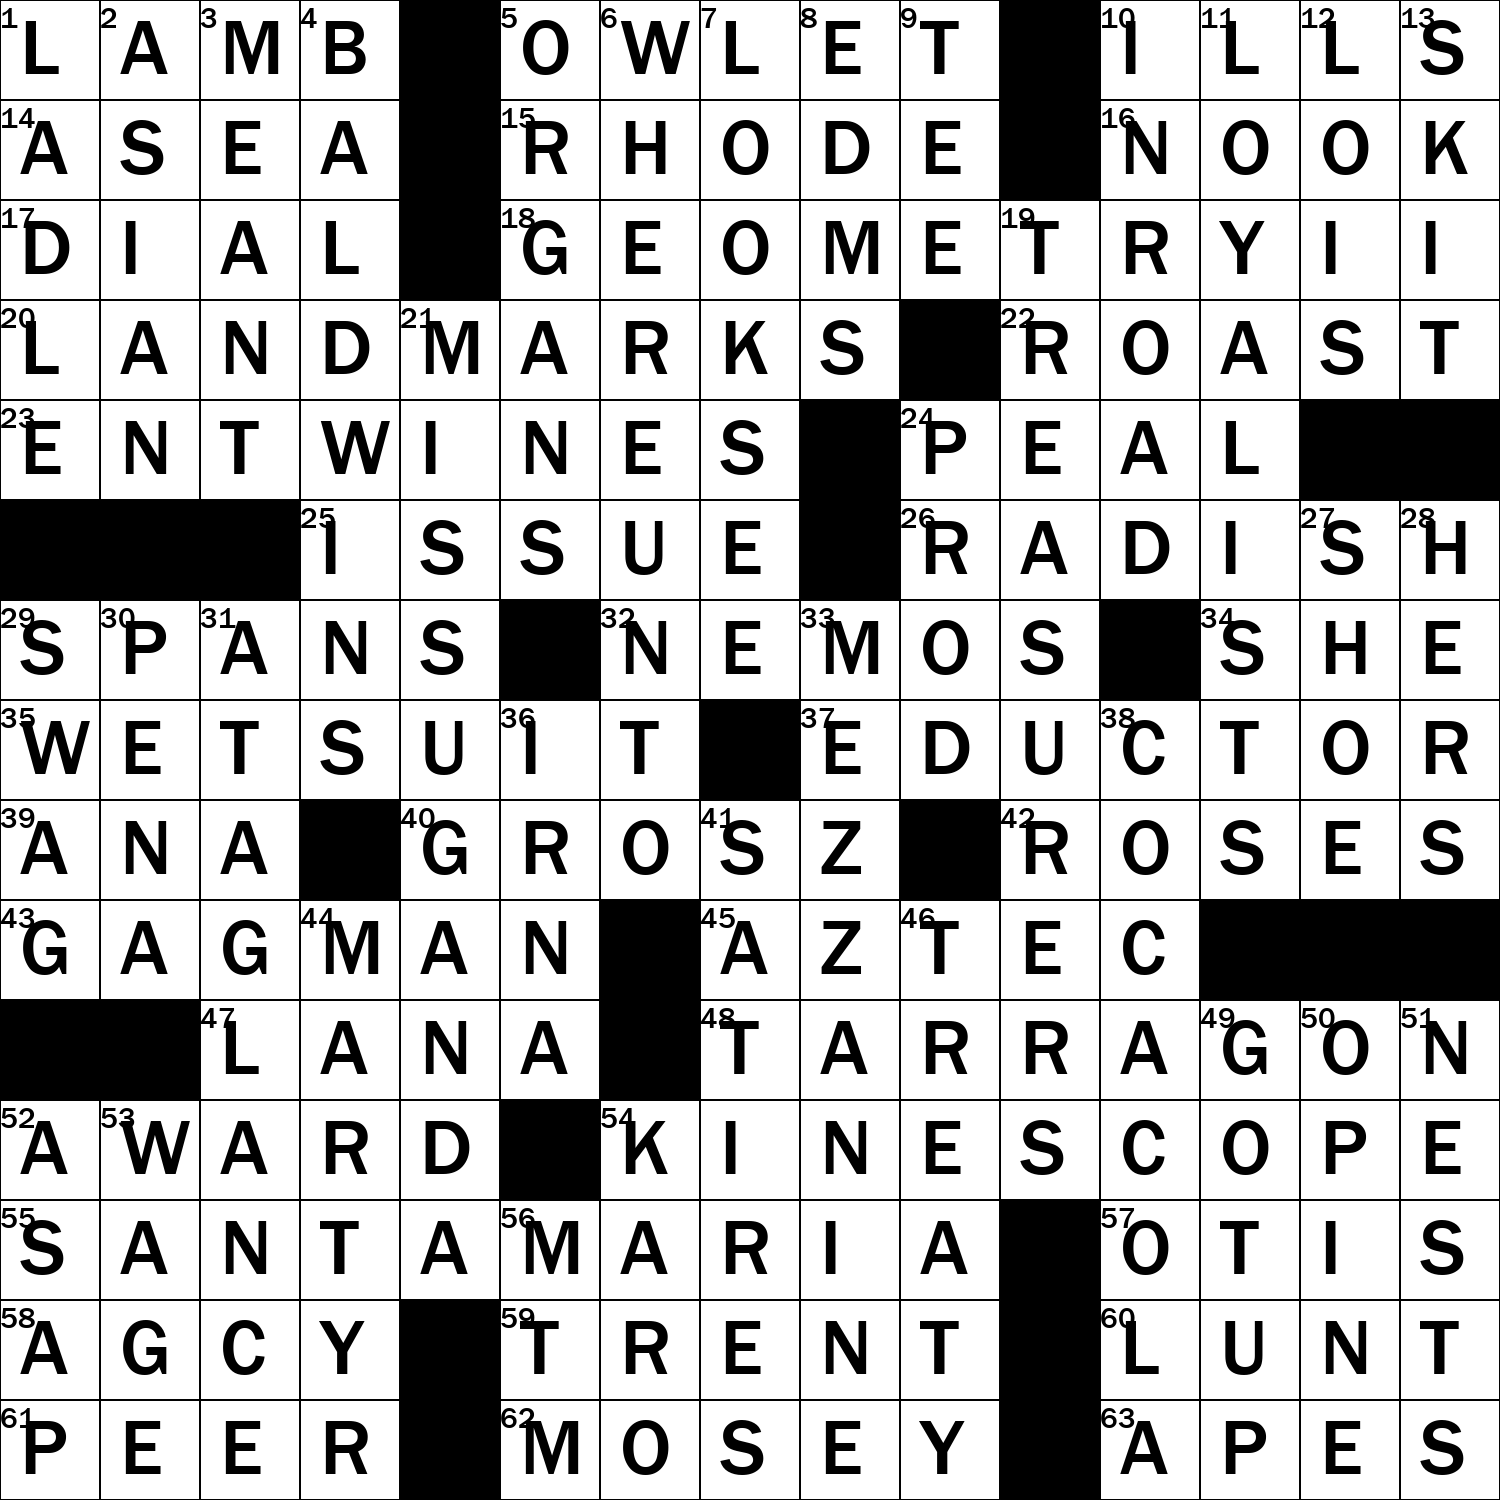
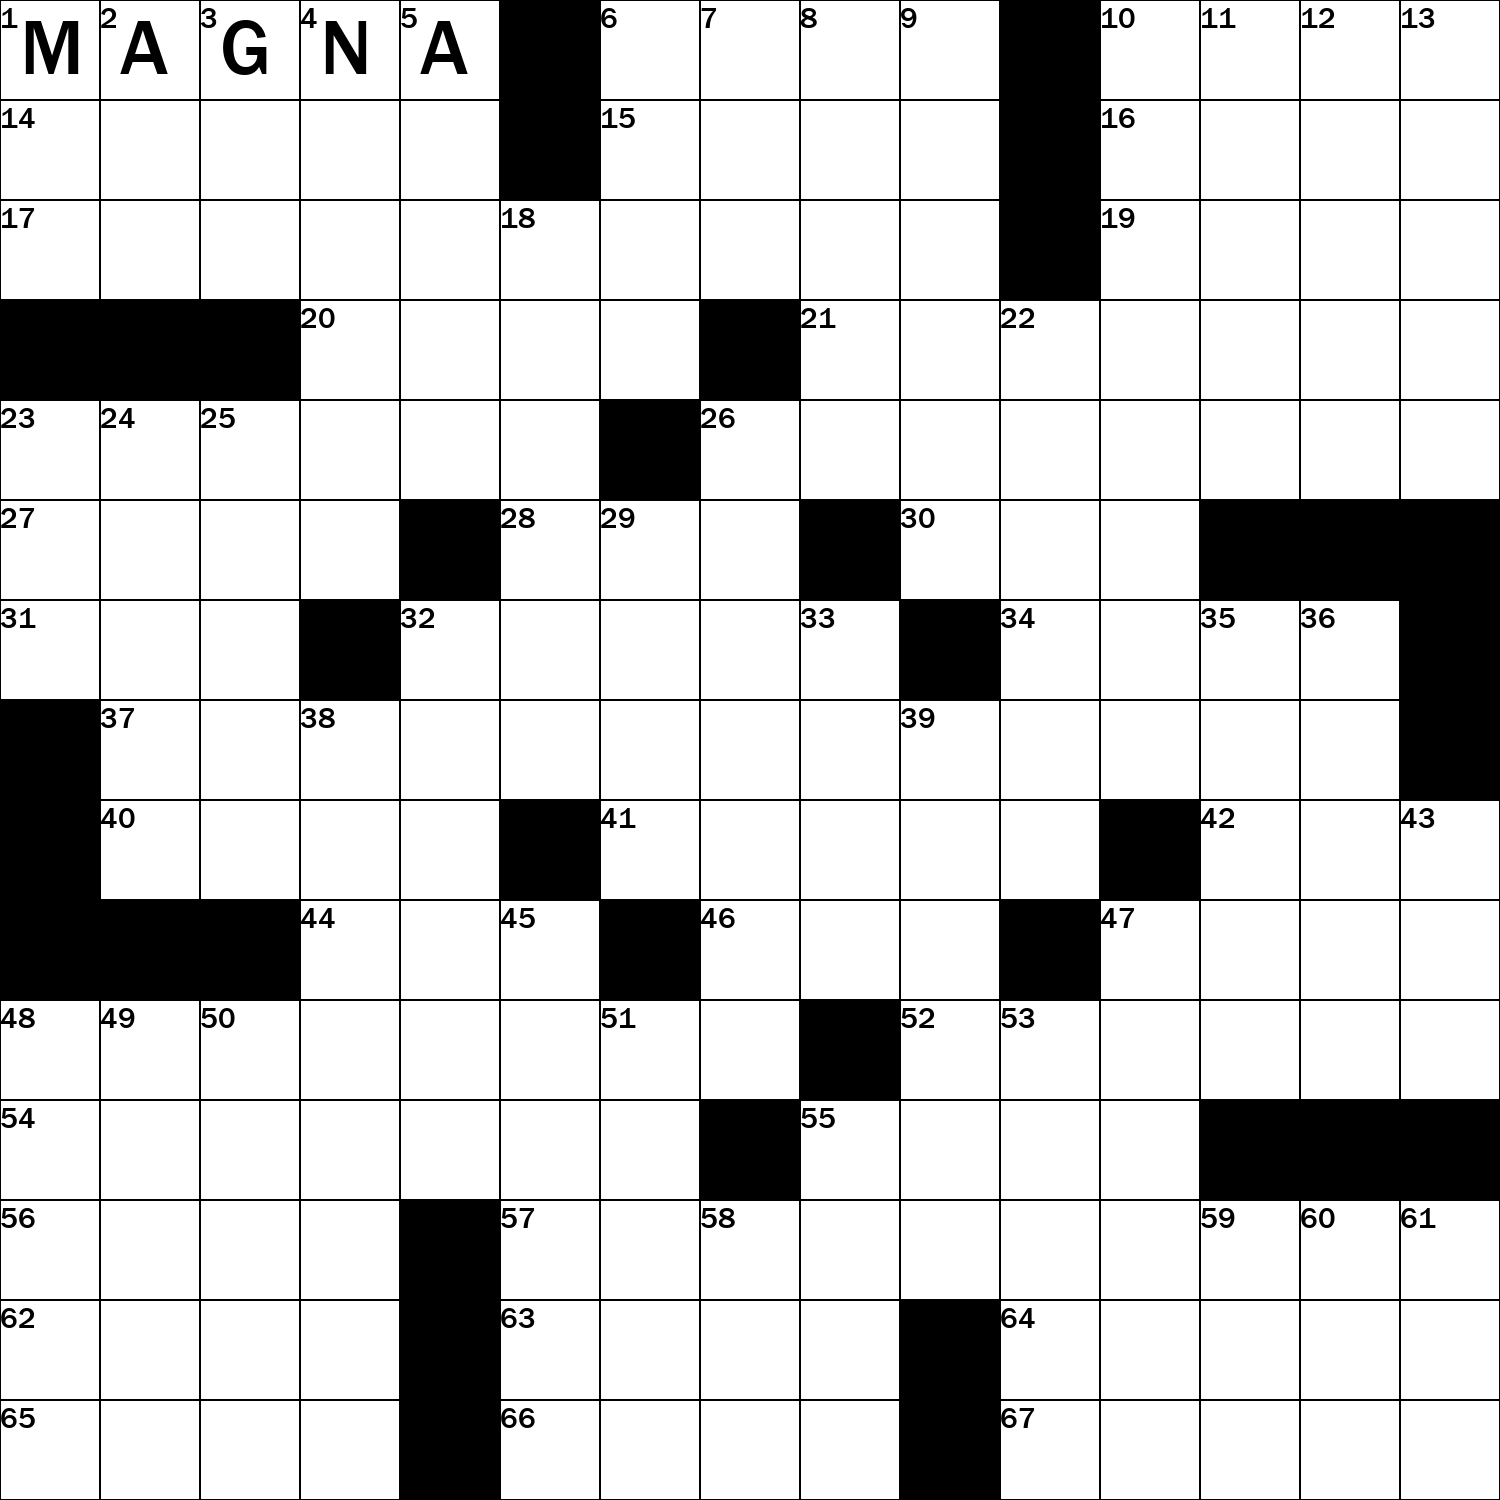
Bot works now ... kind of

diff --git a/crossword.py b/crossword.py
@@ -28,7 +28,7 @@ black_cell = black_cell.convert("RGBA")
 white_cell = Image.open('white_square.png')
 white_cell = white_cell.convert("RGBA")
 white_cell = white_cell.resize((100,100))
-print(white_cell.size)
+# print(white_cell.size)
 white_cell.save('white_square.png', "PNG")
 
 width, height = blank_cell.size
@@ -38,6 +38,71 @@ class Crossword(commands.Cog):
 
     def __init__(self, bot):
         self.bot = bot
+
+    async def crossword(self):
+        '''makes an image of the current crossword state and sends it in a discord embed'''
+
+        # load crossword info, later will be changed to current state
+        # with open("xwordData.json") as f:
+        with open("currentGrid.json") as f:
+            xwordData = json.load(f)
+            listChars = xwordData["grid"]
+            gridNums = xwordData["gridnums"]
+
+        # Image of the entire crossword will be a 15x15 grid of squares
+        crossword_image = Image.new('RGBA', (15 * width, 15 * height))
+        x_offset = 0
+        y_offset = 0
+        column = 0
+
+        for i in range(len(listChars)):
+            char = listChars[i]
+            # new row after every 15 cells
+            if column % 15 == 0 and column != 0:
+                # moves down a row and resets x offset to the very left
+                y_offset += height
+                x_offset = 0
+            column += 1
+
+            if char == '.':
+                # black cell, move x offset to the right for next cell
+                crossword_image.paste(black_cell, (x_offset, y_offset))
+                x_offset += width
+            elif char == '*':
+                # blank cell
+                # crossword_image.paste(blank_cell, (x_offset, y_offset))
+                crossword_image.paste(white_cell, (x_offset, y_offset))
+        
+                if gridNums[i] != 0:
+                    draw = ImageDraw.Draw(crossword_image)
+                    font = ImageFont.truetype("FRAMD.TTF", 30)
+                    draw.text((x_offset, y_offset), str(gridNums[i]), (0,0,0), font=font)
+
+                x_offset += width
+            else:
+                # cell contains letter, add letter to cell with imagefont and imagedraw
+                # crossword_image.paste(blank_cell, (x_offset, y_offset))
+                crossword_image.paste(white_cell, (x_offset, y_offset))
+                # display text on image
+                draw = ImageDraw.Draw(crossword_image)
+                # font file, font size
+                font = ImageFont.truetype("FRAMD.TTF", 80)
+                # (x, y), "Text content", rgb, font
+                draw.text((x_offset, y_offset), " " + char, (0,0,0), font=font)
+
+                if gridNums[i] != 0:
+                    font = ImageFont.truetype("FRAMD.TTF", 30)
+                    draw.text((x_offset, y_offset), str(gridNums[i]), (0,0,0), font=font)
+
+                x_offset += width
+
+        # overlays the image with all the cells on top of the background image
+        # background_image.paste(crossword_image, (0, 0), crossword_image)
+        # background_image.save('crossword_image.png', 'PNG')
+        crossword_image.save('crossword_image.png', 'PNG')
+
+        # file = discord.File("crossword_image.png")
+        # await ctx.channel.send(file=file)
 
     @commands.command()
     async def new(self, ctx):
@@ -72,74 +137,17 @@ class Crossword(commands.Cog):
 
         # create a list for the empty crossword
         blankGrid = xwordData["grid"]
+        gridNums = xwordData["gridnums"]
         for i in range(0, len(blankGrid)):
             # replace all letters with "*" - represents a blank space
             if blankGrid[i].isalpha():
                 blankGrid[i] = "*"
-        emptyGrid = {"grid": blankGrid}
+        emptyGrid = {"grid": blankGrid, "gridnums": gridNums}
         # save the empty grid, will be updated as people fill it in
         with open('currentGrid.json', 'w') as json_file:
             json.dump(emptyGrid, json_file)
 
-        # display_command = self.bot.get_command("displayCrossword")
-        # await ctx.channel.invoke(display_command)
-
-    @commands.command()
-    async def displayCrossword(self, ctx):
-        '''makes an image of the current crossword state and sends it in a discord embed'''
-
-        # load crossword info, later will be changed to current state
-        with open("xwordData.json") as f:
-            xwordData = json.load(f)
-            listChars = xwordData["grid"]
-            gridNums = xwordData["gridnums"]
-
-        # Image of the entire crossword will be a 15x15 grid of squares
-        crossword_image = Image.new('RGBA', (15 * width, 15 * height))
-        x_offset = 0
-        y_offset = 0
-        column = 0
-
-        for i in range(len(listChars)):
-            char = listChars[i]
-            # new row after every 15 cells
-            if column % 15 == 0 and column != 0:
-                # moves down a row and resets x offset to the very left
-                y_offset += height
-                x_offset = 0
-            column += 1
-
-            if char == '.':
-                # black cell, move x offset to the right for next cell
-                crossword_image.paste(black_cell, (x_offset, y_offset))
-                x_offset += width
-            elif char == '*':
-                # blank cell
-                # crossword_image.paste(blank_cell, (x_offset, y_offset))
-                crossword_image.paste(white_cell, (x_offset, y_offset))
-                x_offset += width
-            else:
-                # cell contains letter, add letter to cell with imagefont and imagedraw
-                # crossword_image.paste(blank_cell, (x_offset, y_offset))
-                crossword_image.paste(white_cell, (x_offset, y_offset))
-                # display text on image
-                draw = ImageDraw.Draw(crossword_image)
-                # font file, font size
-                font = ImageFont.truetype("FRAMD.TTF", 80)
-                # (x, y), "Text content", rgb, font
-                draw.text((x_offset, y_offset), " " + char, (0,0,0), font=font)
-
-                if gridNums[i] != 0:
-                    font = ImageFont.truetype("FRAMD.TTF", 30)
-                    draw.text((x_offset, y_offset), str(gridNums[i]), (0,0,0), font=font)
-
-                x_offset += width
-
-        # overlays the image with all the cells on top of the background image
-        # background_image.paste(crossword_image, (0, 0), crossword_image)
-        # background_image.save('crossword_image.png', 'PNG')
-        crossword_image.save('crossword_image.png', 'PNG')
-
+        await self.crossword()
         file = discord.File("crossword_image.png")
         await ctx.channel.send(file=file)
 
@@ -170,6 +178,7 @@ class Crossword(commands.Cog):
         with open("currentGrid.json") as f:
             currentGrid = json.load(f)
             currentStateChars = currentGrid["grid"]
+            currentGridNums = currentGrid["gridnums"]
 
         hasAcross = False
         hasDown = False
@@ -183,12 +192,12 @@ class Crossword(commands.Cog):
             # the number has a down word if it's in the first row or if the cell above it is black
             if gridNums.index(number) < 15 or charAbove == '.':
                 hasDown = True
-                print(str(number) + ' down exists')
+                # print(str(number) + ' down exists')
             # the number has an across word if it's in the first column or if the cell to the left is black
             charLeft = listChars[gridNums.index(number) - 1]
             if gridNums.index(number) % 15 == 0 or charLeft == '.':
                 hasAcross = True
-                print(str(number) + ' across exists')
+                # print(str(number) + ' across exists')
 
         # get the word and compare it to the guess, if the guess is correct update the current state of the crossword
         if (direction == 'across' and hasAcross == True) or (direction == 'down' and hasDown == True):
@@ -221,7 +230,7 @@ class Crossword(commands.Cog):
             
             # guess is correct, update current state of the crossword
             if (actualWord == guess):
-                await ctx.channel.send('you guessed correctly')
+                await ctx.channel.send('Your guess is correct!')
                 # update current state of the crossword
                 gridIndex = gridNums.index(number)
                 if direction == 'across':
@@ -234,12 +243,16 @@ class Crossword(commands.Cog):
                         gridIndex += 15
 
                 with open('currentGrid.json', 'w') as json_file:
-                    data = {"grid": currentStateChars}
+                    data = {"grid": currentStateChars, "gridnums": currentGridNums}
                     json.dump(data, json_file)
+
+                await self.crossword()
+                file = discord.File("crossword_image.png")
+                await ctx.channel.send(file=file)
 
             else:
                 if (len(actualWord.lower()) != len(guess)):
-                    await ctx.channel.send('Your guess is the wrong length')
+                    await ctx.channel.send('Your guess is the wrong length, you fucking idiot sandwich')
                 else:
                     await ctx.channel.send('Your guess is incorrect')
 
